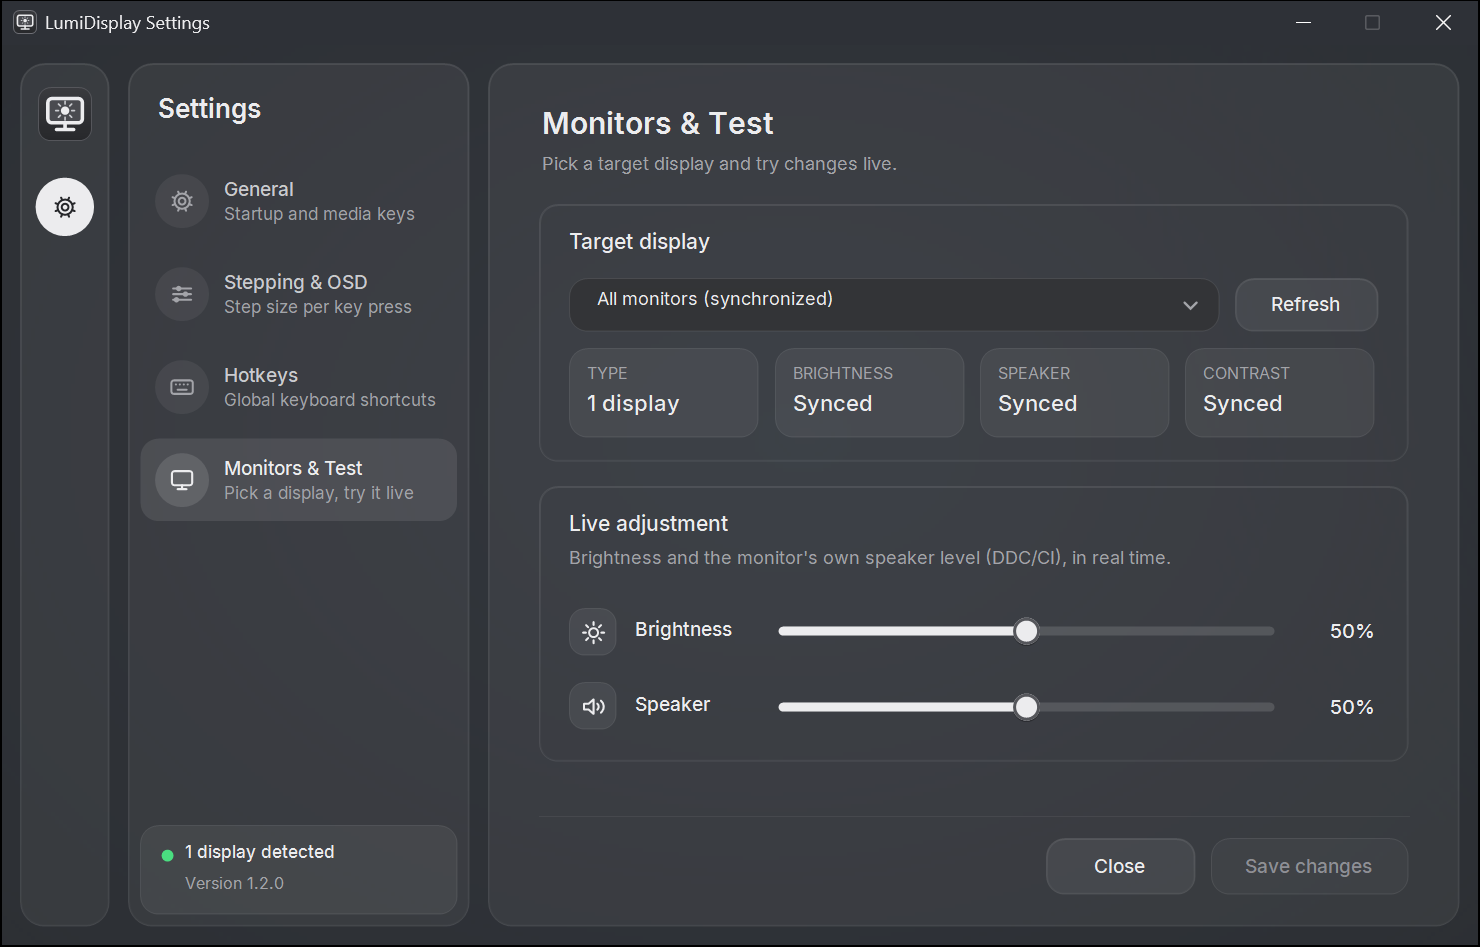
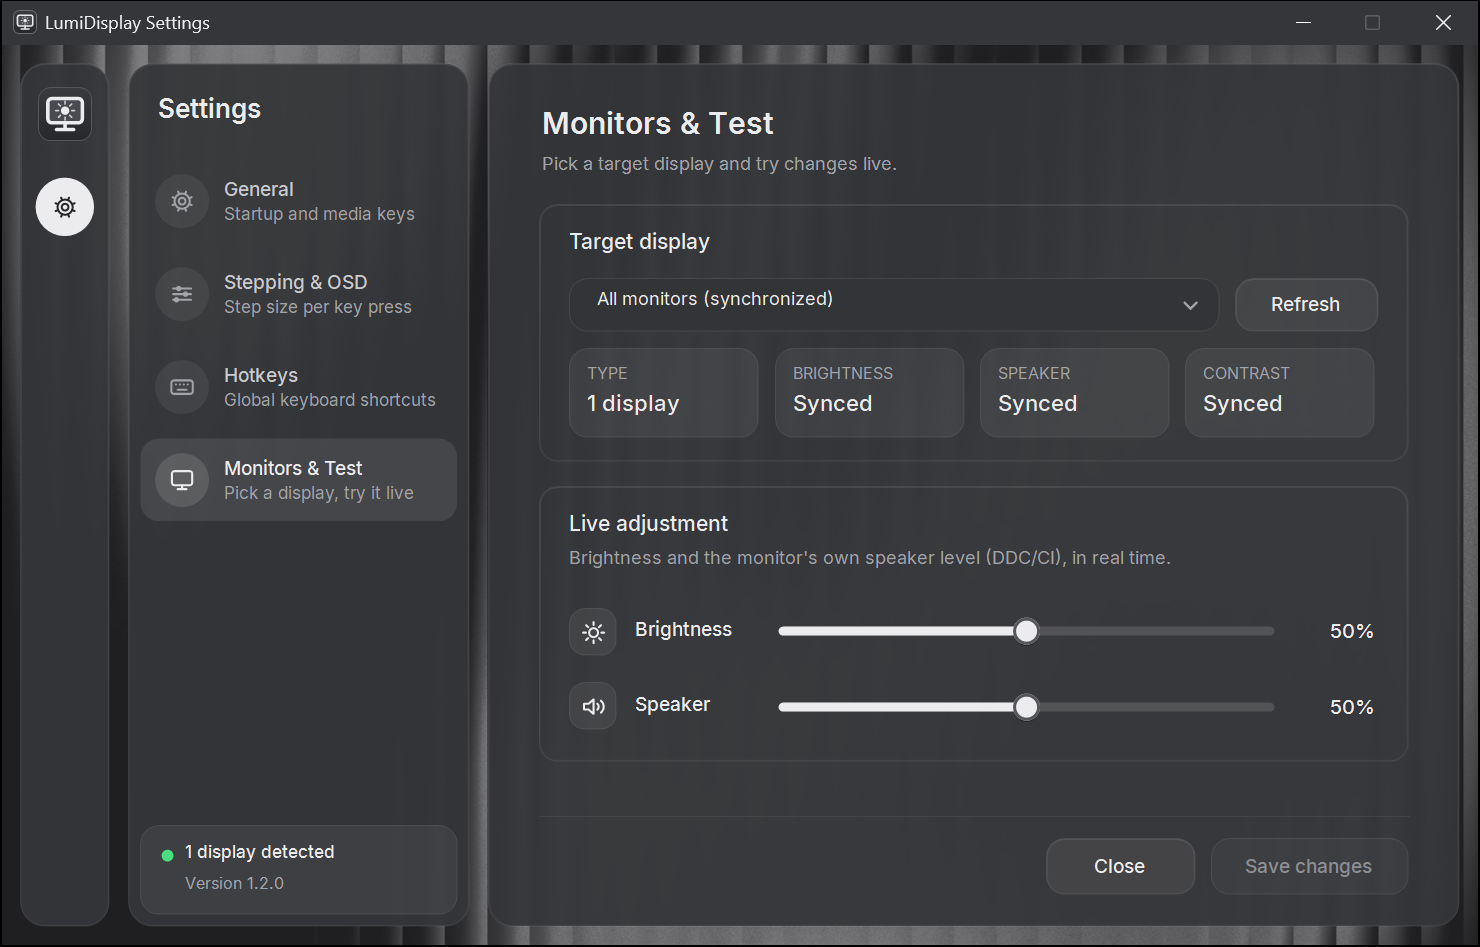
feat(settings): black and white background image behind the glass

diff --git a/src/LumiDisplay/Glass.cs b/src/LumiDisplay/Glass.cs
@@ -2,8 +2,6 @@ using System;
 using System.Drawing;
 using System.Drawing.Drawing2D;
 using System.Drawing.Imaging;
-using System.Runtime.InteropServices;
-using System.Text;
 using System.Windows.Forms;
 
 namespace LumiDisplay;
@@ -21,64 +19,60 @@ internal interface IGlassSurface
 }
 
 /// <summary>
-/// "Liquid glass" for the settings window, built from the desktop wallpaper the way Windows'
-/// Mica is: the wallpaper under the window, blurred heavily and washed toward dark gray.
+/// "Liquid glass" for the settings window, over the app's own black-and-white background image
+/// (Assets/background.jpg).
 ///
 /// Two layers are pre-rendered at the window's client size, so every control copies exactly the
 /// pixels behind it (no seams between controls, no per-paint blurring):
-///   Base    — the window background (blurred wallpaper + dark gray wash)
-///   Surface — Base plus the faint white wash of a glass panel (cards, sidebar)
-/// Rebuilt when the window is shown, moved, resized or the wallpaper changes.
+///   Base    — the window background (the image, lightly washed so it shows between the panels)
+///   Surface — the image blurred and washed dark enough for text, plus the faint white wash of a
+///             glass panel (cards, sidebar)
+/// Rebuilt when the window is shown, resized or its DPI changes.
 /// </summary>
 internal sealed class GlassBackdrop : IDisposable
 {
     public Bitmap? Base { get; private set; }
     public Bitmap? Surface { get; private set; }
 
-    /// <summary>Average color along the top edge, for a title bar that blends in.</summary>
+    /// <summary>Average color along the top edge of the glass, for a title bar that blends in.</summary>
     public Color TopColor { get; private set; } = Theme.Window;
 
     public void Rebuild(Form form)
     {
         if (!form.IsHandleCreated || form.ClientSize.Width <= 0 || form.ClientSize.Height <= 0) return;
 
-        var client = form.RectangleToScreen(form.ClientRectangle);
-        var monitor = Screen.FromRectangle(client).Bounds;
+        var size = form.ClientSize;
+        using var image = Glass.CoverImage(size);
 
-        var baseLayer = new Bitmap(client.Width, client.Height, PixelFormat.Format32bppArgb);
+        var baseLayer = new Bitmap(size.Width, size.Height, PixelFormat.Format32bppArgb);
         using (var g = Graphics.FromImage(baseLayer))
         {
-            var wallpaper = Glass.BlurredWallpaper(monitor.Size);
-            if (wallpaper != null)
-            {
-                // The part of the (blurred) wallpaper that sits under the window
-                float k = wallpaper.Width / (float)monitor.Width;
-                var src = new RectangleF((client.X - monitor.X) * k, (client.Y - monitor.Y) * k, client.Width * k, client.Height * k);
-                g.InterpolationMode = InterpolationMode.HighQualityBicubic;
-                g.PixelOffsetMode = PixelOffsetMode.HighQuality;
-                using var attrs = new ImageAttributes();
-                attrs.SetWrapMode(WrapMode.TileFlipXY);
-                g.DrawImage(wallpaper, new Rectangle(0, 0, client.Width, client.Height),
-                    src.X, src.Y, src.Width, src.Height, GraphicsUnit.Pixel, attrs);
-            }
+            if (image != null)
+                g.DrawImageUnscaled(image, 0, 0);
             else
             {
-                // No wallpaper available: a calm graphite field
-                using var grad = new LinearGradientBrush(new Rectangle(0, 0, client.Width, client.Height),
+                // Image missing: a calm graphite field
+                using var grad = new LinearGradientBrush(new Rectangle(Point.Empty, size),
                     Color.FromArgb(58, 60, 64), Color.FromArgb(42, 43, 46), 35f);
-                g.FillRectangle(grad, 0, 0, client.Width, client.Height);
+                g.FillRectangle(grad, 0, 0, size.Width, size.Height);
             }
-            int alpha = Glass.AdaptiveWashAlpha(baseLayer, Glass.WindowWashAlpha, Glass.WindowWashAlphaBright);
-            using var wash = new SolidBrush(Color.FromArgb(alpha, Glass.WindowWash));
-            g.FillRectangle(wash, 0, 0, client.Width, client.Height);
+            using var wash = new SolidBrush(Color.FromArgb(Glass.BackgroundWashAlpha, Glass.WindowWash));
+            g.FillRectangle(wash, 0, 0, size.Width, size.Height);
         }
 
-        var surfaceLayer = new Bitmap(baseLayer);
+        float scale = form.DeviceDpi / 96f;
+        var surfaceLayer = image != null
+            ? Glass.Blur(image, Math.Max(3, (int)Math.Round(4 * scale)))
+            : new Bitmap(baseLayer);
         using (var g = Graphics.FromImage(surfaceLayer))
-        using (var wash = new SolidBrush(Glass.SurfaceWash))
-            g.FillRectangle(wash, 0, 0, client.Width, client.Height);
+        {
+            using (var wash = new SolidBrush(Color.FromArgb(Glass.SafeWashAlpha(surfaceLayer), Glass.WindowWash)))
+                g.FillRectangle(wash, 0, 0, size.Width, size.Height);
+            using (var wash = new SolidBrush(Glass.SurfaceWash))
+                g.FillRectangle(wash, 0, 0, size.Width, size.Height);
+        }
 
-        TopColor = AverageTop(baseLayer);
+        TopColor = AverageTop(surfaceLayer);
         Base?.Dispose();
         Surface?.Dispose();
         Base = baseLayer;
@@ -109,11 +103,16 @@ internal sealed class GlassBackdrop : IDisposable
 
 internal static class Glass
 {
-    /// <summary>Wash over the wallpaper for the window background: keeps any wallpaper dark and calm.</summary>
+    /// <summary>Dark gray wash over the background image: keeps the glass dark and calm.</summary>
     public static readonly Color WindowWash = Color.FromArgb(200, 40, 41, 44);
 
-    /// <summary>Wash alphas for the settings window and OSD; bright backgrounds get the denser one so text stays readable.</summary>
-    public const int WindowWashAlpha = 200, WindowWashAlphaBright = 245;
+    /// <summary>Wash over the background image between the glass panels (no text sits there).</summary>
+    public const int BackgroundWashAlpha = 150;
+
+    /// <summary>Lightest wash a glass panel gets, even over a dark image.</summary>
+    public const int WindowWashAlpha = 200;
+
+    /// <summary>OSD wash alphas; bright backgrounds get the denser one so text stays readable.</summary>
     public const int OsdWashAlpha = 150, OsdWashAlphaBright = 225;
 
     /// <summary>
@@ -133,6 +132,36 @@ internal static class Glass
             }
         double t = n == 0 ? 0 : Math.Clamp((sum / n - 0.4) / 0.45, 0, 1);
         return (int)Math.Round(normal + (bright - normal) * t);
+    }
+
+    /// <summary>
+    /// Smallest wash alpha (at least <see cref="WindowWashAlpha"/>) that keeps muted text readable
+    /// (4.5:1) on a glass panel over the brightest pixel of <paramref name="bmp"/>.
+    /// </summary>
+    public static int SafeWashAlpha(Bitmap bmp)
+    {
+        int max = 0;
+        for (int y = 0; y < bmp.Height; y += 2)
+            for (int x = 0; x < bmp.Width; x += 2)
+            {
+                var c = bmp.GetPixel(x, y);
+                max = Math.Max(max, Math.Max(c.R, Math.Max(c.G, c.B)));
+            }
+        return SafeWashAlpha(Color.FromArgb(max, max, max));
+    }
+
+    public static int SafeWashAlpha(Color brightest)
+    {
+        for (int a = WindowWashAlpha; a < 255; a++)
+            if (Theme.ContrastRatio(Theme.TextMuted, PanelOver(brightest, a)) >= 4.6) return a;
+        return 255;
+    }
+
+    /// <summary>What a glass panel looks like over <paramref name="under"/> with a wash of <paramref name="alpha"/>.</summary>
+    public static Color PanelOver(Color under, int alpha)
+    {
+        var washed = Theme.Blend(Color.FromArgb(255, under), Color.FromArgb(255, WindowWash), alpha / 255f);
+        return Theme.Blend(washed, Color.FromArgb(255, SurfaceWash), SurfaceWash.A / 255f);
     }
 
     /// <summary>Extra wash of a glass panel (card, sidebar) over the window background.</summary>
@@ -220,116 +249,65 @@ internal static class Glass
         return false;
     }
 
-    // --- Wallpaper ---
+    // --- Background image ---
 
-    private static Bitmap? _wallpaper;
-    private static string? _wallpaperKey;
+    private static Bitmap? _background;
 
-    /// <summary>
-    /// The desktop wallpaper as it fills a monitor of <paramref name="monitor"/> size, reduced to a small,
-    /// heavily blurred image (cached). Null when no wallpaper can be read.
-    /// </summary>
-    public static Bitmap? BlurredWallpaper(Size monitor)
+    /// <summary>The background image (embedded, black and white), loaded once. Null if it can't be read.</summary>
+    private static Bitmap? Background()
     {
-        string? path = WallpaperPath();
-        Color? solid = path == null ? DesktopColor() : null;
-        string key = $"{path}|{solid}|{monitor.Width}x{monitor.Height}|{(path != null && System.IO.File.Exists(path) ? System.IO.File.GetLastWriteTimeUtc(path).Ticks : 0)}";
-        if (key == _wallpaperKey) return _wallpaper;
-
-        _wallpaper?.Dispose();
-        _wallpaper = null;
-        _wallpaperKey = key;
+        if (_background != null) return _background;
         try
         {
-            if (path != null)
-            {
-                using var image = Image.FromFile(path);
-                _wallpaper = BlurFill(image, monitor);
-            }
-            else if (solid != null)
-            {
-                _wallpaper = new Bitmap(64, Math.Max(1, 64 * monitor.Height / Math.Max(1, monitor.Width)));
-                using var g = Graphics.FromImage(_wallpaper);
-                g.Clear(solid.Value);
-            }
+            using var stream = typeof(Glass).Assembly.GetManifestResourceStream("LumiDisplay.Assets.background.jpg");
+            if (stream != null) _background = new Bitmap(stream);
         }
         catch
         {
-            _wallpaper = null;
+            _background = null;
         }
-        return _wallpaper;
+        return _background;
     }
 
-    /// <summary>Forgets the cached wallpaper (call when Windows reports a desktop change).</summary>
-    public static void InvalidateWallpaper() => _wallpaperKey = null;
-
-    private static Bitmap BlurFill(Image image, Size monitor)
+    /// <summary>The background image scaled to cover <paramref name="size"/>, centered (caller disposes).</summary>
+    public static Bitmap? CoverImage(Size size)
     {
-        // "Fill" placement: scale to cover the monitor, centered
-        float scale = Math.Max(monitor.Width / (float)image.Width, monitor.Height / (float)image.Height);
-        float srcW = monitor.Width / scale, srcH = monitor.Height / scale;
-        var src = new RectangleF((image.Width - srcW) / 2f, (image.Height - srcH) / 2f, srcW, srcH);
-
-        // Down to a tiny image (the blur), then up to a smooth mid-size image to sample from
-        int tinyW = 48, tinyH = Math.Max(1, (int)Math.Round(48f * monitor.Height / monitor.Width));
-        using var tiny = new Bitmap(tinyW, tinyH, PixelFormat.Format32bppArgb);
-        using (var g = Graphics.FromImage(tiny))
-        {
-            g.InterpolationMode = InterpolationMode.HighQualityBilinear;
-            g.PixelOffsetMode = PixelOffsetMode.HighQuality;
-            g.DrawImage(image, new Rectangle(0, 0, tinyW, tinyH), src.X, src.Y, src.Width, src.Height, GraphicsUnit.Pixel);
-        }
-
-        int midW = 384, midH = Math.Max(1, (int)Math.Round(384f * monitor.Height / monitor.Width));
-        var mid = new Bitmap(midW, midH, PixelFormat.Format32bppArgb);
-        using (var g = Graphics.FromImage(mid))
-        using (var attrs = new ImageAttributes())
-        {
-            attrs.SetWrapMode(WrapMode.TileFlipXY);
-            g.InterpolationMode = InterpolationMode.HighQualityBicubic;
-            g.PixelOffsetMode = PixelOffsetMode.HighQuality;
-            g.DrawImage(tiny, new Rectangle(0, 0, midW, midH), 0, 0, tinyW, tinyH, GraphicsUnit.Pixel, attrs);
-        }
-        return mid;
+        var image = Background();
+        if (image == null) return null;
+        float scale = Math.Max(size.Width / (float)image.Width, size.Height / (float)image.Height);
+        float srcW = size.Width / scale, srcH = size.Height / scale;
+        var bmp = new Bitmap(size.Width, size.Height, PixelFormat.Format32bppArgb);
+        using var g = Graphics.FromImage(bmp);
+        g.InterpolationMode = InterpolationMode.HighQualityBicubic;
+        g.PixelOffsetMode = PixelOffsetMode.HighQuality;
+        using var attrs = new ImageAttributes();
+        attrs.SetWrapMode(WrapMode.TileFlipXY);
+        g.DrawImage(image, new Rectangle(Point.Empty, size),
+            (image.Width - srcW) / 2f, (image.Height - srcH) / 2f, srcW, srcH, GraphicsUnit.Pixel, attrs);
+        return bmp;
     }
 
-    private static string? WallpaperPath()
+    /// <summary>Strong, smooth blur: downscale by <paramref name="factor"/> in two passes, then scale back up bicubically.</summary>
+    public static Bitmap Blur(Bitmap source, int factor)
     {
-        try
-        {
-            var sb = new StringBuilder(520);
-            if (SystemParametersInfo(SPI_GETDESKWALLPAPER, (uint)sb.Capacity, sb, 0))
-            {
-                var p = sb.ToString();
-                if (!string.IsNullOrWhiteSpace(p) && System.IO.File.Exists(p)) return p;
-            }
-            // Windows keeps a copy of the current wallpaper here (also for Spotlight / slideshow)
-            var transcoded = System.IO.Path.Combine(
-                Environment.GetFolderPath(Environment.SpecialFolder.ApplicationData),
-                "Microsoft", "Windows", "Themes", "TranscodedWallpaper");
-            if (System.IO.File.Exists(transcoded)) return transcoded;
-        }
-        catch { }
-        return null;
+        int w = source.Width, h = source.Height;
+        using var mid = Resize(source, Math.Max(1, w / 3), Math.Max(1, h / 3), InterpolationMode.HighQualityBilinear);
+        using var small = Resize(mid, Math.Max(1, w / factor), Math.Max(1, h / factor), InterpolationMode.HighQualityBilinear);
+        return Resize(small, w, h, InterpolationMode.HighQualityBicubic);
     }
 
-    private static Color? DesktopColor()
+    private static Bitmap Resize(Bitmap src, int w, int h, InterpolationMode mode)
     {
-        try
-        {
-            using var key = Microsoft.Win32.Registry.CurrentUser.OpenSubKey(@"Control Panel\Colors");
-            var parts = (key?.GetValue("Background") as string)?.Split(' ');
-            if (parts is { Length: 3 })
-                return Color.FromArgb(int.Parse(parts[0]), int.Parse(parts[1]), int.Parse(parts[2]));
-        }
-        catch { }
-        return null;
+        var dst = new Bitmap(w, h, PixelFormat.Format32bppArgb);
+        using var g = Graphics.FromImage(dst);
+        g.InterpolationMode = mode;
+        g.PixelOffsetMode = PixelOffsetMode.HighQuality;
+        g.CompositingMode = CompositingMode.SourceCopy;
+        using var attrs = new ImageAttributes();
+        attrs.SetWrapMode(WrapMode.TileFlipXY); // no dark fringe at the edges
+        g.DrawImage(src, new Rectangle(0, 0, w, h), 0, 0, src.Width, src.Height, GraphicsUnit.Pixel, attrs);
+        return dst;
     }
-
-    private const uint SPI_GETDESKWALLPAPER = 0x0073;
-
-    [DllImport("user32.dll", CharSet = CharSet.Unicode, SetLastError = true)]
-    private static extern bool SystemParametersInfo(uint uiAction, uint uiParam, StringBuilder pvParam, uint fWinIni);
 }
 
 /// <summary>

diff --git a/src/LumiDisplay/SettingsForm.cs b/src/LumiDisplay/SettingsForm.cs
@@ -56,21 +56,13 @@ public sealed class SettingsForm : Form, IGlassHost
     protected override void OnHandleCreated(EventArgs e)
     {
         base.OnHandleCreated(e);
-        Microsoft.Win32.SystemEvents.UserPreferenceChanged += OnUserPreferenceChanged;
         RefreshGlass();
     }
 
     protected override void OnShown(EventArgs e)
     {
         base.OnShown(e);
-        RefreshGlass(); // final position is known now
-    }
-
-    // Moving or resizing ends here; the glass shows the wallpaper under the window's new spot
-    protected override void OnResizeEnd(EventArgs e)
-    {
-        base.OnResizeEnd(e);
-        RefreshGlass();
+        RefreshGlass(); // final size and DPI are known now
     }
 
     protected override void OnDpiChanged(DpiChangedEventArgs e)
@@ -79,12 +71,6 @@ public sealed class SettingsForm : Form, IGlassHost
         RefreshGlass();
     }
 
-    private void OnUserPreferenceChanged(object? sender, Microsoft.Win32.UserPreferenceChangedEventArgs e)
-    {
-        if (e.Category != Microsoft.Win32.UserPreferenceCategory.Desktop || IsDisposed) return;
-        Glass.InvalidateWallpaper();
-        BeginInvoke(new Action(RefreshGlass));
-    }
 
     private void RefreshGlass()
     {
@@ -296,7 +282,6 @@ public sealed class SettingsForm : Form, IGlassHost
         // Never leave the global shortcuts paused if the window closes mid-recording
         _suspendHotkeys?.Invoke(false);
         _savedFlashTimer.Dispose();
-        Microsoft.Win32.SystemEvents.UserPreferenceChanged -= OnUserPreferenceChanged;
         _backdrop.Dispose();
         base.OnFormClosed(e);
     }

diff --git a/src/LumiDisplay/Theme.cs b/src/LumiDisplay/Theme.cs
@@ -127,10 +127,11 @@ internal static class Theme
         Debug.Assert(ContrastRatio(OnAccent, Accent) >= 7.0);
         Debug.Assert(ContrastRatio(Text, Window) >= 7.0);
 
-        // Worst case: a white wallpaper (or white window behind the OSD) under the densest wash
+        // Worst case: glass panels over white image pixels, or a white window behind the OSD
         static Color Over(Color top, int alpha, Color under) => Blend(under, Color.FromArgb(255, top), alpha / 255f);
-        var panelOnWhite = Over(Color.White, Glass.SurfaceWash.A, Over(Glass.WindowWash, Glass.WindowWashAlphaBright, Color.White));
+        var panelOnWhite = Glass.PanelOver(Color.White, Glass.SafeWashAlpha(Color.White));
         Debug.Assert(ContrastRatio(TextMuted, panelOnWhite) >= 4.5);
+        Debug.Assert(Glass.SafeWashAlpha(Color.Black) == Glass.WindowWashAlpha);
         var osdOnWhite = Over(Color.FromArgb(44, 45, 48), Glass.OsdWashAlphaBright, Color.White);
         Debug.Assert(ContrastRatio(Text, osdOnWhite) >= 4.5);
     }
